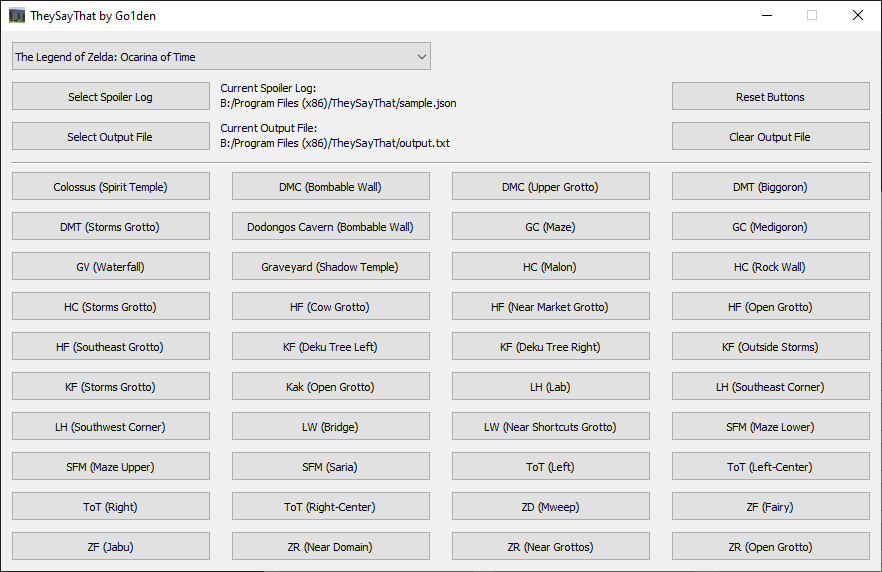
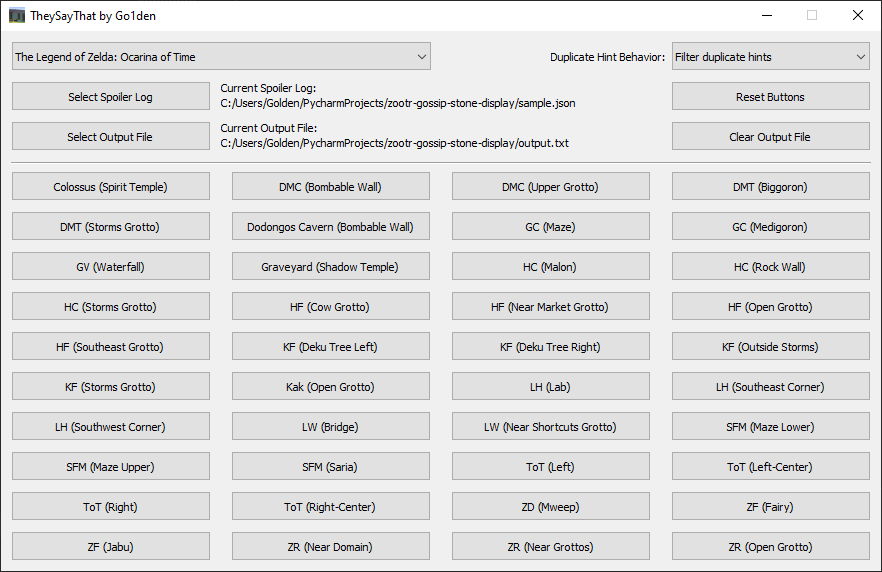
Added hint handling behavior options

diff --git a/main.py b/main.py
@@ -6,7 +6,7 @@ from shutil import copyfile
 from PyQt5.QtGui import QIcon
 from PyQt5.QtWidgets import QApplication, QWidget, QPushButton, QFileDialog, QLabel, QMessageBox, QSystemTrayIcon, QComboBox, QFrame
 
-from fileHelper import isPathExistsOrCreatable, writeToFile, fileContainsText, clearFile
+from fileHelper import isPathExistsOrCreatable, writeToFile, fileContainsText, clearFile, readFileToString
 from game import Game
 from supportedGames.donkeykong64 import DonkeyKong64
 from supportedGames.majorasmask import MajorasMask
@@ -34,10 +34,12 @@ class MainWindow(QWidget):
         self.gameDropdown = None
         self.resetButton = None
         self.labelSpoilerLog = None
+        self.hintHandlerDropdown = None
         self.labelOutputFile = None
         self.buttons = dict()
         self.spoilerLog = ""
         self.outputFile = (getcwd() + '/output.txt').replace('\\', '/')
+        self.hintHandler = "Filter them"
         self.clickedButtons = []
         self.loadConfig()
         self.createDefaultUI()
@@ -58,6 +60,8 @@ class MainWindow(QWidget):
             resultDict['spoilerLog'] = self.spoilerLog
         if self.outputFile:
             resultDict['outputFile'] = self.outputFile
+        if self.hintHandler:
+            resultDict['hintHandler'] = self.hintHandler
         if self.clickedButtons:
             resultDict['clickedButtons'] = self.clickedButtons
         clearFile('config.json')
@@ -75,6 +79,9 @@ class MainWindow(QWidget):
         else:
             self.setAllButtons(True)
 
+    def onHintHandlerChange(self, hintHandler):
+        self.hintHandler = hintHandler
+
     def createDefaultUI(self):
         gameNames = [x.getGameName() for x in self.games]
         gameNames = sorted(gameNames)
@@ -86,6 +93,25 @@ class MainWindow(QWidget):
         self.gameDropdown.resize(419, 28)
         self.gameDropdown.move(11, 11)
         self.gameDropdown.show()
+
+        labelHintHandler = QLabel(self)
+        labelHintHandler.setText("Duplicate Hint Behavior: ")
+        labelHintHandler.move(550, 19)
+        labelHintHandler.show()
+
+        hintHandlers = ["Filter duplicate hints", "Count duplicate hints", "Always add every hint"]
+        try:
+            indexToSet = hintHandlers.index(self.hintHandler)
+        except ValueError:
+            indexToSet = 0
+            self.hintHandler = "Filter duplicate hints"
+        self.hintHandlerDropdown = QComboBox(self)
+        self.hintHandlerDropdown.addItems(hintHandlers)
+        self.hintHandlerDropdown.setCurrentIndex(indexToSet)
+        self.hintHandlerDropdown.currentTextChanged.connect(self.onHintHandlerChange)
+        self.hintHandlerDropdown.resize(198, 28)
+        self.hintHandlerDropdown.move(671, 11)
+        self.hintHandlerDropdown.show()
 
         btn = QPushButton(self)
         btn.setText('Select Spoiler Log')
@@ -168,6 +194,11 @@ class MainWindow(QWidget):
                                 self.game = next((x for x in self.games if x.getGameName() == data['game']), self.game)
                         except KeyError:
                             self.game = self.game
+                        try:
+                            if data['hintHandler'] is not None:
+                                self.hintHandler = data['hintHandler']
+                        except KeyError:
+                            pass
                 except JSONDecodeError:
                     return
         except FileNotFoundError:
@@ -187,8 +218,28 @@ class MainWindow(QWidget):
         btn.setEnabled(False)
         self.clickedButtons.append({'buttonText': buttonText})
         hintText = next((x.value for x in self.game.getHints() if x.buttonText == buttonText), "")
-        if not fileContainsText(self.outputFile, hintText):
+        if self.hintHandler == "Always add every hint":
             writeToFile(self.outputFile, hintText)
+            return
+        hintAlreadyExists = fileContainsText(self.outputFile, hintText)
+        if not hintAlreadyExists:
+            writeToFile(self.outputFile, hintText)
+            return
+        if self.hintHandler == "Count duplicate hints":
+            fileContents = readFileToString(self.outputFile)
+            idx = fileContents.index(hintText)
+            if idx >= 0:
+                checkIndex = idx + len(hintText)
+                potentialCountString = fileContents[checkIndex:checkIndex + 5]
+                if ' (x' in potentialCountString and ')' in potentialCountString:
+                    currentCount = int(fileContents[checkIndex + 3])
+                    result = fileContents[:checkIndex + 3] + str(currentCount + 1) + fileContents[checkIndex + 4:]
+                else:
+                    result = fileContents[:checkIndex] + ' (x2)' + fileContents[checkIndex:]
+                clearFile(self.outputFile)
+                writeToFile(self.outputFile, result.rstrip())
+            else:  # Should not be possible
+                writeToFile(self.outputFile, hintText)
 
     def resetButtons(self, override):
         reply = QMessageBox.No

diff --git a/fileHelper.py b/fileHelper.py
@@ -19,3 +19,8 @@ def fileContainsText(file, text) -> bool:
 
 def clearFile(f):
     open(f, 'w').close()
+
+def readFileToString(f) -> str:
+    with open(f, 'r') as myFile:
+        result = myFile.read()
+    return result
